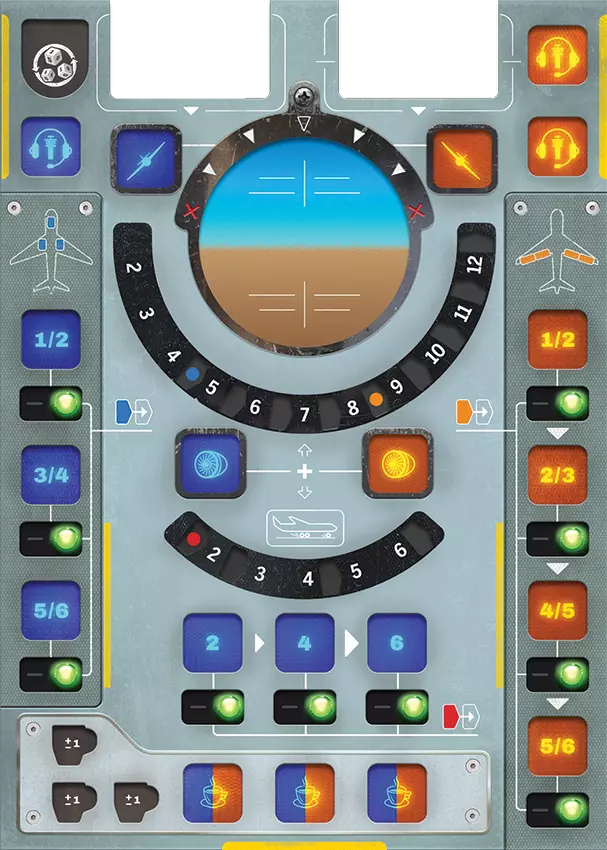
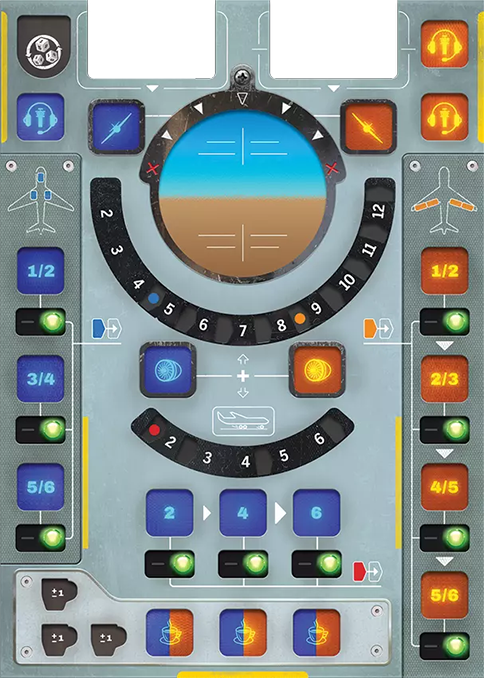
better resolution of assets

diff --git a/core/src/main/java/com/mygdx/skyteam/screens/GameplayScreen.java b/core/src/main/java/com/mygdx/skyteam/screens/GameplayScreen.java
@@ -131,9 +131,9 @@ public class GameplayScreen implements Screen {
     @Override
     public void show() {
         backgroundTexture = new Texture(Gdx.files.internal("images/wood_bg.jpg"));
-        boardTexture = new Texture(Gdx.files.internal("board/Control Panel.png"));
-        planeTrack = new Texture(Gdx.files.internal("board/Track.png"));
-        altitudeTrack = new Texture(Gdx.files.internal("board/Altitude.png"));
+        boardTexture = new Texture(Gdx.files.internal("board/Control Panel copy.png"));
+        planeTrack = new Texture(Gdx.files.internal("board/Track copy.png"));
+        altitudeTrack = new Texture(Gdx.files.internal("board/Altitude copy.png"));
         axisIcon = new Texture(Gdx.files.internal("board/axis_icon.png"));
         switchTrack = new Texture(Gdx.files.internal("board/icons/Switch.png"));
         blueMarkerTrack = new Texture(Gdx.files.internal("board/markers/MarkerBlue.png"));
@@ -185,13 +185,13 @@ public class GameplayScreen implements Screen {
         switchesPositions = new ArrayList<>();
 
         // Switches for Landing gears
-        switchesPositions.add(new Vector2(735, 343));
-        switchesPositions.add(new Vector2(735, 235));
+        switchesPositions.add(new Vector2(735, 342));
+        switchesPositions.add(new Vector2(735, 234));
         switchesPositions.add(new Vector2(735, 126));
 
         // Switches for Flaps
-        switchesPositions.add(new Vector2(1142, 343));
-        switchesPositions.add(new Vector2(1142, 235));
+        switchesPositions.add(new Vector2(1142, 342));
+        switchesPositions.add(new Vector2(1142, 234));
         switchesPositions.add(new Vector2(1142, 126));
         switchesPositions.add(new Vector2(1142, 18));
 
@@ -1017,14 +1017,14 @@ public class GameplayScreen implements Screen {
 
         }
 
-        float altitudeTrackWidth = altitudeTrack.getWidth() * scaleFactor - 6;
-        float altitudeTrackHeight = altitudeTrack.getHeight() * scaleFactor;
+        float altitudeTrackWidth = altitudeTrack.getWidth() - 6;
+        float altitudeTrackHeight = altitudeTrack.getHeight();
         float altitudeTrackX = (Gdx.graphics.getWidth() - altitudeTrackWidth) / 2f + 95 - 2;
-        float altitudeTrackY = boardTexture.getHeight() * scaleFactor - 100 - altitudeOffset;
+        float altitudeTrackY = boardTexture.getHeight() - 100 - altitudeOffset;
         batch.draw(altitudeTrack, altitudeTrackX, altitudeTrackY, altitudeTrackWidth, altitudeTrackHeight);
 
-        float boardWidth = boardTexture.getWidth() * scaleFactor;
-        float boardHeight = boardTexture.getHeight() * scaleFactor;
+        float boardWidth = boardTexture.getWidth();
+        float boardHeight = boardTexture.getHeight();
         float boardX = (Gdx.graphics.getWidth() - boardWidth) / 2f;
         float boardY = 0;
         batch.draw(boardTexture, boardX, boardY, boardWidth, boardHeight);
@@ -1160,8 +1160,8 @@ public class GameplayScreen implements Screen {
             Vector2 placeholderPosition = rerollPlaceholders.get(i);
 
             if (i == 0) {
-                batch.draw(rerollIconTrack, placeholderPosition.x - 10, placeholderPosition.y, 50, 50); // larger
-                                                                                                        // size
+                batch.draw(rerollIconTrack, placeholderPosition.x - 10, placeholderPosition.y - 5, 50, 50); // larger
+                // size
             } else {
                 batch.draw(rerollIconTrack, placeholderPosition.x, placeholderPosition.y, 35, 35); // normal size
             }
@@ -1195,11 +1195,10 @@ public class GameplayScreen implements Screen {
         float scaledHeight = planeTexture.getHeight() * scaleFactor;
 
         // Drawing plane track
-        float planeTrackScaleFactor = 0.8f;
-        float planeTrackWidth = planeTrack.getWidth() * planeTrackScaleFactor - 6;
-        float planeTrackHeight = planeTrack.getHeight() * planeTrackScaleFactor;
+        float planeTrackWidth = planeTrack.getWidth() - 6;
+        float planeTrackHeight = planeTrack.getHeight();
         float planeTrackX = (Gdx.graphics.getWidth() - planeTrackWidth) / 2f - 95 + 3;
-        float planeTrackY = boardTexture.getHeight() * planeTrackScaleFactor - 100 - planeTrackVerticalOffset;
+        float planeTrackY = boardTexture.getHeight() - 100 - planeTrackVerticalOffset;
         batch.draw(planeTrack, planeTrackX, planeTrackY, planeTrackWidth, planeTrackHeight);
 
         int baseY = 620;

diff --git a/core/src/main/java/com/mygdx/skyteam/screens/MainMenuScreen.java b/core/src/main/java/com/mygdx/skyteam/screens/MainMenuScreen.java
@@ -39,21 +39,19 @@ public class MainMenuScreen implements Screen {
 
         // Title
         Texture titleTexture = new Texture(Gdx.files.internal("images/title.png"));
-        Image titleImage = new Image(titleTexture); 
+        Image titleImage = new Image(titleTexture);
 
         titleImage.setPosition(
                 (Gdx.graphics.getWidth() - titleImage.getWidth()) / 2f,
-                Gdx.graphics.getHeight() - titleImage.getHeight() - 150 
-        );
+                Gdx.graphics.getHeight() - titleImage.getHeight() - 150);
 
-          // Plane Icon
-          Texture planeIconTexture = new Texture(Gdx.files.internal("images/plane_icon.png"));
-          Image planeIcon = new Image(planeIconTexture);
-          planeIcon.setSize(450, 450);
-          planeIcon.setPosition(
-              titleImage.getX() + 800,
-              titleImage.getY() - 250  
-          );
+        // Plane Icon
+        Texture planeIconTexture = new Texture(Gdx.files.internal("images/plane_icon.png"));
+        Image planeIcon = new Image(planeIconTexture);
+        planeIcon.setSize(450, 450);
+        planeIcon.setPosition(
+                titleImage.getX() + 800,
+                titleImage.getY() - 250);
 
         // Start Button
         Texture normalStartTexture = new Texture(Gdx.files.internal("buttons/button_start_normal.png"));
@@ -94,7 +92,7 @@ public class MainMenuScreen implements Screen {
         howToPlayButton.addListener(new ChangeListener() {
             @Override
             public void changed(ChangeEvent event, Actor actor) {
-                // Link has to be added to our manual 
+                // Link has to be added to our manual
             }
         });
 
@@ -135,23 +133,24 @@ public class MainMenuScreen implements Screen {
     }
 
     private void setFullscreenMode() {
-        Gdx.graphics.setFullscreenMode(Gdx.graphics.getDisplayMode()); 
+        Gdx.graphics.setFullscreenMode(Gdx.graphics.getDisplayMode());
     }
 
     private void setWindowedMode() {
-        Gdx.graphics.setWindowedMode(1920, 1080); 
-        Gdx.graphics.setResizable(true); 
+        int windowWidth = 1920;
+        int windowHeight = 1080;
+        Gdx.graphics.setWindowedMode(windowWidth, windowHeight);
+        System.out.println("Window resolution set to: " + windowWidth + "x" + windowHeight);
     }
 
-    
     @Override
     public void resize(int width, int height) {
-        stage.getViewport().update(width, height, true); 
+        stage.getViewport().update(width, height, true);
     }
 
     @Override
     public void hide() {
-        stage.dispose(); 
+        stage.dispose();
     }
 
     @Override
